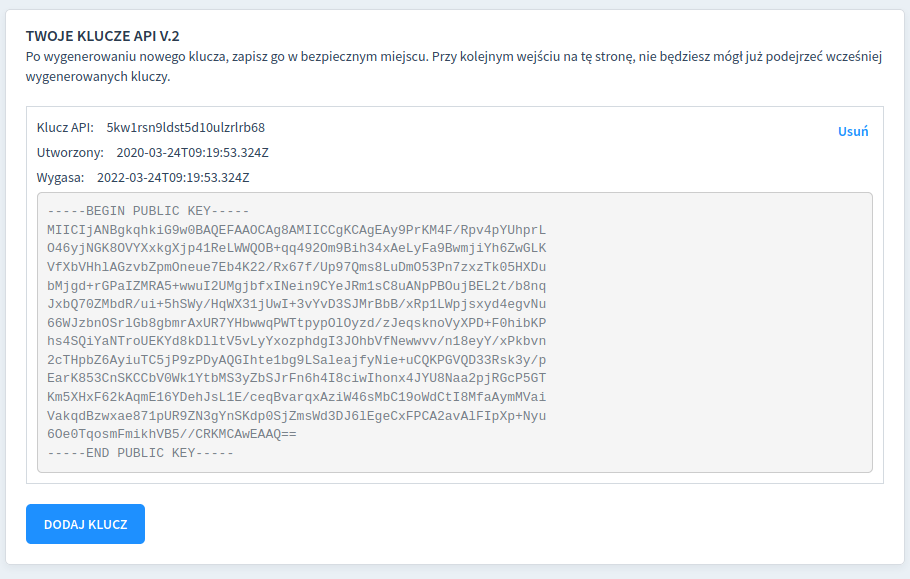
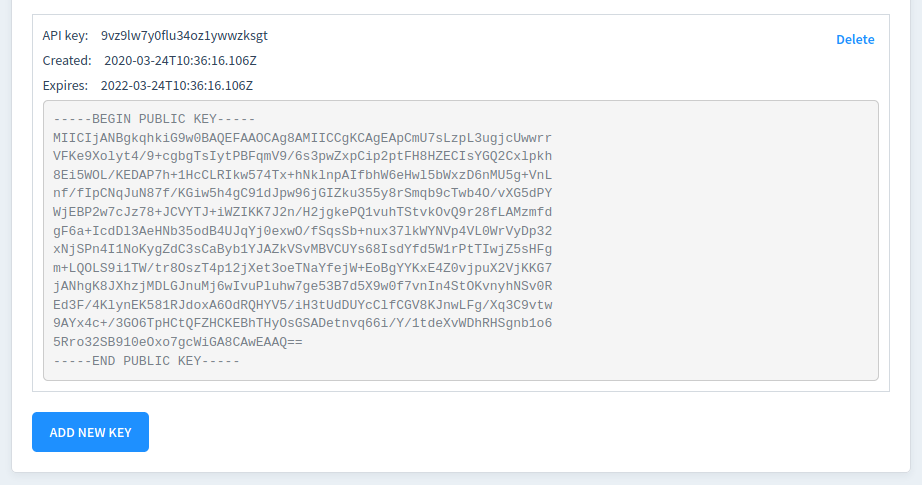
python:api-v2:add-rsa-image-eng

Changed region(s): [[0.0, 0.0, 1.0, 0.9897], [0.9231, 0.3093, 0.9538, 0.3402], [0.9231, 0.2165, 0.9538, 0.2474]]

diff --git a/python/API-v2/order-withdraw.py b/python/API-v2/order-withdraw.py
@@ -21,7 +21,7 @@ URI = '/api/v2.0.0/market_fx/orders/close'
 
 private_key = crypto.load_privatekey(crypto.FILETYPE_PEM, open('./private.key').read())
 
-ts = datetime.utcnow().strftime("%Y-%m-%dT%H:%M:%SZ")
+ts = datetime.utcnow().strftime('%Y-%m-%dT%H:%M:%SZ')
 
 body = {
     'orderId': ORDER_ID,
@@ -30,7 +30,7 @@ body = {
 urlencoded = urllib.parse.urlencode(body)
 data_to_sign = f'{ts}{URI}{urlencoded}'
 
-signature = crypto.sign(private_key, data_to_sign, "sha256") 
+signature = crypto.sign(private_key, data_to_sign, 'sha256') 
 signature_base_64 = base64.b64encode(signature)
 
 headers = {

diff --git a/python/API-v2/order-create.py b/python/API-v2/order-create.py
@@ -16,7 +16,7 @@ URI = '/api/v2.0.0/market_fx/orders'
 
 private_key = crypto.load_privatekey(crypto.FILETYPE_PEM, open('./private.key').read())
 
-ts = datetime.utcnow().strftime("%Y-%m-%dT%H:%M:%SZ")
+ts = datetime.utcnow().strftime('%Y-%m-%dT%H:%M:%SZ')
 submit_id = uuid.uuid4()
 
 body = {
@@ -32,7 +32,7 @@ body = {
 urlencoded = urllib.parse.urlencode(body)
 data_to_sign = f'{ts}{URI}{urlencoded}'
 
-signature = crypto.sign(private_key, data_to_sign, "sha256") 
+signature = crypto.sign(private_key, data_to_sign, 'sha256') 
 signature_base64 = base64.b64encode(signature)
 
 headers = {

diff --git a/python/API-v2/offers-get.py b/python/API-v2/offers-get.py
@@ -14,10 +14,10 @@ URI = '/api/v2.0.0/market_fx/orders/active'
 
 private_key = crypto.load_privatekey(crypto.FILETYPE_PEM, open('./private.key').read())
 
-ts = datetime.utcnow().strftime("%Y-%m-%dT%H:%M:%SZ")
+ts = datetime.utcnow().strftime('%Y-%m-%dT%H:%M:%SZ')
 data_to_sign = f'{ts}{URI}'
 
-signature = crypto.sign(private_key, data_to_sign, "sha256") 
+signature = crypto.sign(private_key, data_to_sign, 'sha256') 
 signature_base64 = base64.b64encode(signature)
 
 headers = {

diff --git a/python/API-v2/wallet-get.py b/python/API-v2/wallet-get.py
@@ -14,10 +14,10 @@ URI = '/api/v2.0.0/account/balances'
 
 private_key = crypto.load_privatekey(crypto.FILETYPE_PEM, open('./private.key').read())
 
-ts = datetime.utcnow().strftime("%Y-%m-%dT%H:%M:%SZ")
+ts = datetime.utcnow().strftime('%Y-%m-%dT%H:%M:%SZ')
 data_to_sign = f'{ts}{URI}'
 
-signature = crypto.sign(private_key, data_to_sign, "sha256") 
+signature = crypto.sign(private_key, data_to_sign, 'sha256') 
 signature_base64 = base64.b64encode(signature)
 
 headers = {

diff --git a/python/API-v2/README.pl.md b/python/API-v2/README.pl.md
@@ -22,7 +22,7 @@ $ openssl rsa -in ./private.key -pubout -out ./public.key
 
 ### API KEY
 Once the RSA Key pair is generated, the API KEY can be obtained in your **Walutomat** account. Make sure to use the **public.key**. The API KEY can be seen **only once**.
-![api_key](./images/api_key.png)
+![api_key_eng](./images/api_key.png)
 
 When the API KEY is generated, copy its value to **./api_key** and save the file.
 
